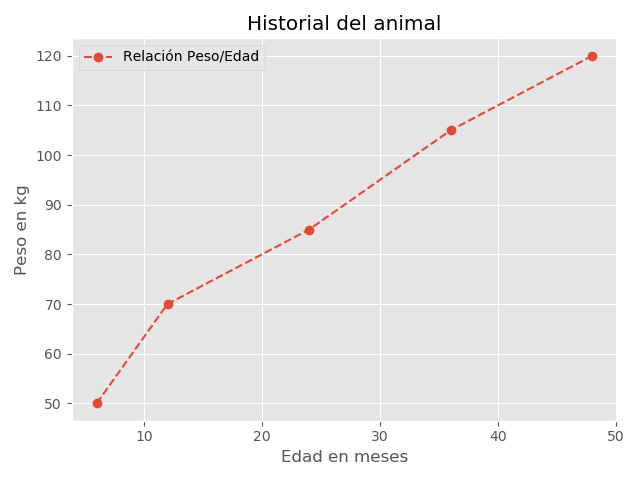
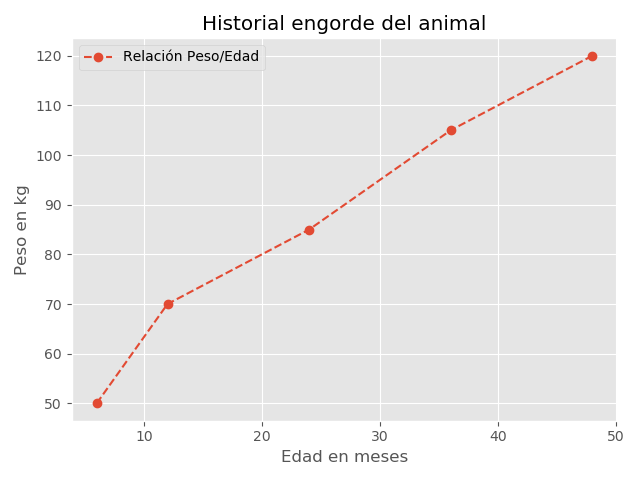
Detalle animal FIX Add ANIMAL

Changed region(s): [[0.3125, 0.0312, 0.7812, 0.0625]]

diff --git a/templates/corralAnimal.html b/templates/corralAnimal.html
@@ -63,7 +63,7 @@
                             <select class="form-control" name="idCorral" id="idCorral" readonly value="">
                                 {% for corral in corrales %}
 
-                                    <option value="{{corral.0}}">{{corral.1}}</option>
+                                <option value="{{corral.0}}">{{corral.1}}</option>
 
                                 {% endfor %}
                             </select>
@@ -112,7 +112,7 @@
         <div class="table-title">
             <div class="row">
                 <div class="col-sm-8">
-                    <h4>Lista de corrales:</h4>
+                    <h4>Lista de animales en el corral:</h4>
                 </div>
             </div>
         </div>
@@ -124,7 +124,7 @@
                     <th>Animal</th>
                     <th>Fecha Ingreso</th>
                     <th>Fecha Salida</th>
-                    <th>operación</th>
+                    <th style="width: 20% !important;">operación</th>
                 </tr>
             </thead>
             <tbody id="TablaCorral">
@@ -148,8 +148,10 @@
                             onclick="myFunction('{{animal.0}}', '{{animal.1}}', '{{animal.2}}', '{{animal.3}}')"
                             class="edit" title="Edit" data-toggle="modal" data-target="#myModal"><i
                                 class="material-icons">&#xE254;</i></a>
-                        <a href="/DeleteCorralAnimal/{{animal.0}}/{{animal.1}}/{{animal.2}}" class="delete" title="Delete"><i
-                                class="material-icons">&#xE872;</i></a>
+                        <a href="/DeleteCorralAnimal/{{animal.0}}/{{animal.1}}/{{animal.2}}" class="delete"
+                            title="Delete"><i class="material-icons">&#xE872;</i></a>
+                        <a href="/detalleAnimal/{{animal.1}}" class="add-new" title="info" data-toggle="tooltip"><i
+                                class="material-icons">&#xe88e;</i></a>
                     </td>
                 </tr>
                 {% endfor %}
@@ -189,36 +191,41 @@
                                     <th>operación</th>
                                 </tr>
                             </thead>
-                            <tbody id="tablaCorral">
-                                <tr>
-                                    <td>
-                                        <select class="form-control" name="idCorralModal" id="idCorralModal" readonly value="">
-                                            {% for corral in corrales %}
+                        <tbody id="tablaCorral">
+                            <tr>
+                                <td>
+                                    <select class="form-control" name="idCorralModal" id="idCorralModal" readonly
+                                        value="">
+                                        {% for corral in corrales %}
 
-                                                <option value="{{corral.0}}">{{corral.1}}</option>
-            
-                                            {% endfor %}
-                                        </select>
-                                    </td>
-                                    <td>
-                                        <select class="form-control" name="idAnimalModal" id="idAnimalModal" readonly value="">
-                                            {% for animal in animales %}
-            
-                                            <option value="{{animal.0}}">{{animal.2}}</option>
-            
-                                            {% endfor %}
-                                        </select>
-                                    </td>
-                                    <td>
-                                        <input type="date" class="form-control" name="corralFechaModal" id="corralFechaModal" value="">
-                                    </td>
-                                    <td>
-                                        <input type="date" class="form-control" name="corralFechaFinModal" id="corralFechaFinModal" value="">
-                                    </td>
-                                    <td>
-                                        <button type="submit" class="btn btn-info add-new"><i class="fa fa-plus"></i>Actualizar</button>
-                                    </td>
-                                </tr>
+                                        <option value="{{corral.0}}">{{corral.1}}</option>
+
+                                        {% endfor %}
+                                    </select>
+                                </td>
+                                <td>
+                                    <select class="form-control" name="idAnimalModal" id="idAnimalModal" readonly
+                                        value="">
+                                        {% for animal in animales %}
+
+                                        <option value="{{animal.0}}">{{animal.2}}</option>
+
+                                        {% endfor %}
+                                    </select>
+                                </td>
+                                <td>
+                                    <input type="date" class="form-control" name="corralFechaModal"
+                                        id="corralFechaModal" value="">
+                                </td>
+                                <td>
+                                    <input type="date" class="form-control" name="corralFechaFinModal"
+                                        id="corralFechaFinModal" value="">
+                                </td>
+                                <td>
+                                    <button type="submit" class="btn btn-info add-new"><i
+                                            class="fa fa-plus"></i>Actualizar</button>
+                                </td>
+                            </tr>
                         </tbody>
                     </table>
                 </form>

diff --git a/templates/animalHistoryGraph.html b/templates/animalHistoryGraph.html
@@ -3,27 +3,82 @@
 
 
 {% block head %}
-<style type="text/css"></style>
+<style type="text/css">
+    .tableDetail{
+        text-align: left;
+        font-weight:bold;
+    }
+
+    .tableDetailRigth{
+        text-align: initial;
+    }
+
+</style>
 {% endblock %}
 
 
 {% block body %}
+
 <div class="container">
-    <!-- LOS COLORES ESTAN PARA IDENTIFICAR LOS DIV SE PUEDEN SACAR HAY Q SACARLOS DESPUES-->
-    <div class="container-fluid" style="margin-top: 2%;">
-        <div class="row" style="background-color:lavender;">
-            <div class="col-md-6 text-center" style="background-color:lightgray; margin-top: 6%;">
-                <label for="staticId" class="">Nombre animal: Martin</label><br>
-                <label for="staticId" class="">Edad: 35 meses</label><br>
-                <label for="staticId" class="">Peso: 105kg</label><br>
-                <label for="staticId" class="">Origen: de lo profundo</label><br>
-                <label for="staticId" class="">Sexo: M/F</label><br>
-                <label for="staticId" class="">Fecha caducidad: jugando los descuentos</label><br>
-            </div>
-            <div class="col-sm-5 col-sm-offset-2 col-md-6 col-md-offset-0" style="background-color:lightcyan;">
-                <img src=" {{ url_for('static', filename='grafica.png') }} " alt="Historia del animal">
+    <div class="table-title">
+        <div class="row">
+            <div style="text-align: center" class="">
+                <h1 style="font-weight: bold;">Detalle del animal</h1>
             </div>
         </div>
     </div>
+    <!-- LOS COLORES ESTAN PARA IDENTIFICAR LOS DIV SE PUEDEN SACAR HAY Q SACARLOS DESPUES-->
+    {% for detail in details %}
+        <div class="container-fluid" style="margin-top: 2%;">
+            <div class="row" style="background-color:lavender;">
+                <div class="col-md-6 text-center" style="background-color:lightgray; margin-top: 6%;">
+                <table class="table">
+                  <thead>
+                    <tr style="text-align:right">
+                      <th>Campo:</th>
+                      <th style="width: 50% !important;">Informacion:</th>
+                    </tr>
+                  </thead>
+                  <tbody>     
+                    <tr class="success">
+                      <td class="tableDetail">Identificador:</td>
+                      <td class="tableDetailRigth">{{detail.0}}</td>
+                    </tr>
+                    <tr class="danger">
+                      <td class="tableDetail">Tipo animal:</td>
+                      <td class="tableDetailRigth">{{detail.1}}</td>
+                    </tr>
+                    <tr class="info">
+                      <td class="tableDetail">Fecha compra:</td>
+                      <td class="tableDetailRigth">{{detail.2}}</td>
+                    </tr>
+                    <tr class="warning">
+                      <td class="tableDetail">Precio compra:</td>
+                      <td class="tableDetailRigth">{{detail.3}}</td>
+                    </tr>
+                    <tr class="active">
+                      <td class="tableDetail">Corral:</td>
+                      <td class="tableDetailRigth">{{detail.4}}</td>
+                    </tr>
+                  </tbody>
+                </table>
+
+            </div>
+
+
+
+
+
+
+
+
+
+
+                <div class="col-sm-5 col-sm-offset-2 col-md-6 col-md-offset-0">
+                    <img src=" {{ url_for('static', filename='grafica.png') }} " alt="Historia del animal">
+                </div>
+            </div>
+        </div>
+    {% endfor %}
 </div>
 {% endblock %}

diff --git a/templates/base.html b/templates/base.html
@@ -132,14 +132,15 @@
                         </ul>
                     </li>
 
-                    <li><a class="menuInicio" href="/historiaAnimal">TEST DE GRAFICA</a></li>
+                    <!-- <li><a class="menuInicio" href="/historiaAnimal">TEST DE GRAFICA</a></li> -->
                 </ul>
+                <!--
                 <ul class="nav navbar-nav">
                     <li><a class="menuInicio" href="#">Animal2</a></li>
                 </ul>
                 <ul class="nav navbar-nav">
                     <li><a class="menuInicio" href="#">Animal3</a></li>
-                </ul>
+                </ul> -->
                 <ul class="nav navbar-nav navbar-right">
                     <li><a class="out" href="/salir">Salir</a></li>
                 </ul>

diff --git a/app.py b/app.py
@@ -16,6 +16,7 @@ from cattleFattening import *
 from corralAnimal import *
 from datetime import date
 from dateutil import parser
+from animalDetail import *
 
 # Objeto Flask
 app = Flask(__name__)
@@ -73,12 +74,14 @@ def ingresar():
         password = request.form['passwordLogin']
         return ingresoUsuario(correo, password)
 
-# Pagina historia animal
-@app.route('/historiaAnimal', methods=["GET", "POST"])
-def historiaAnimal():
+# Pagina detalle animal
+@app.route('/detalleAnimal/<string:id>', methods=["GET", "POST"])
+def detalleAnimal(id):
     if 'nombre' in session:
+        print(id + ' IDDDDDDDDDDDDDDDDD')
         makeGraph()
-        return render_template("animalHistoryGraph.html")
+        data = getAnimalDetail(id)
+        return render_template("animalHistoryGraph.html", details = data)
     else:
         return render_template('login.html')
 

diff --git a/animalDetail.py b/animalDetail.py
@@ -1,0 +1,19 @@
+from mysqlDb import mysql
+from flask import Flask, render_template, url_for, request, redirect, session, flash
+
+
+def getAnimalDetail(animalId):
+    print("DETALLE DEL ANIMAL:")
+    cur = mysql.connection.cursor()
+
+    cur.execute(""" SELECT animalIdInt, tipoAnimalNom, compraFecha, compraPrecio, corralNom 
+                      FROM feedlot.animal, feedlot.tipoanimal, feedlot.compra, feedlot.corralanimal, feedlot.corral 
+                      WHERE animal.animalId = {0}
+                      AND  animal.tipoAnimalId = tipoanimal.tipoAnimalId 
+                      AND animal.animalId = compra.animalId 
+                      AND animal.animalId = corralanimal.animalId 
+                      AND corral.corralId = corralanimal.corralId """.format(animalId))
+
+    data = cur.fetchall()
+    cur.close()
+    return data

diff --git a/animal.py b/animal.py
@@ -31,7 +31,7 @@ def animalInicio():
 
 def animalAdd(identificador, tipoAnimal):
     cur = mysql.connection.cursor()
-    cur.execute("INSERT INTO animal (animalId, tipoAnimalId)  VALUES (%s, %s)",
+    cur.execute("INSERT INTO animal (animalIdInt, tipoAnimalId)  VALUES (%s, %s)",
                 (identificador, tipoAnimal))
     mysql.connection.commit()
     cur.close()

diff --git a/graph.py b/graph.py
@@ -21,7 +21,7 @@ def makeGraph():
 
     plt.ylabel('Peso en kg')
     plt.xlabel('Edad en meses')
-    plt.title('Historial del animal')
+    plt.title('Historial engorde del animal')
     plt.legend()
     plt.grid(True)
     plt.tight_layout()
